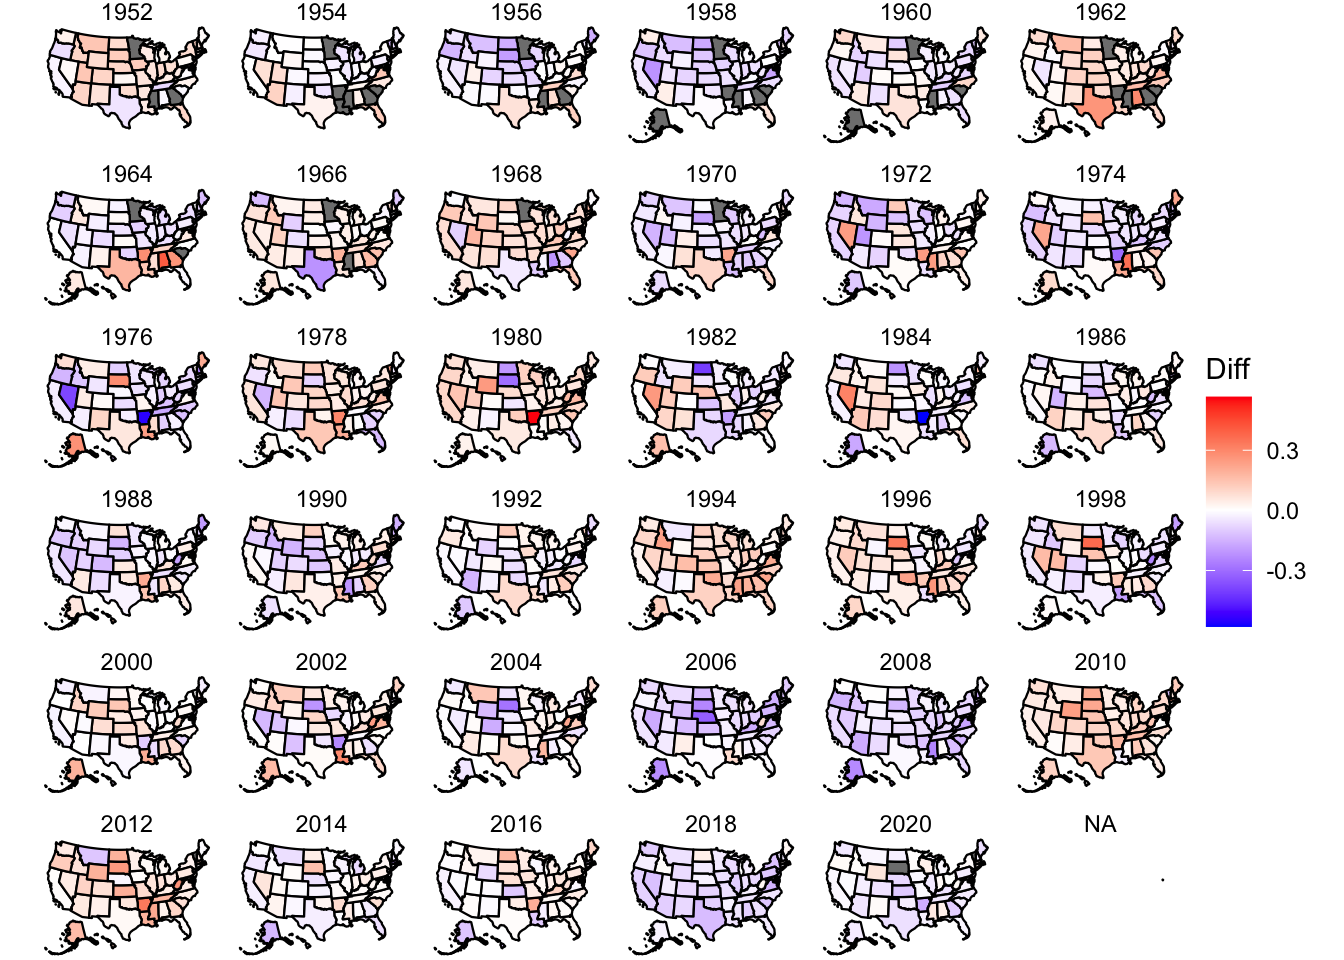
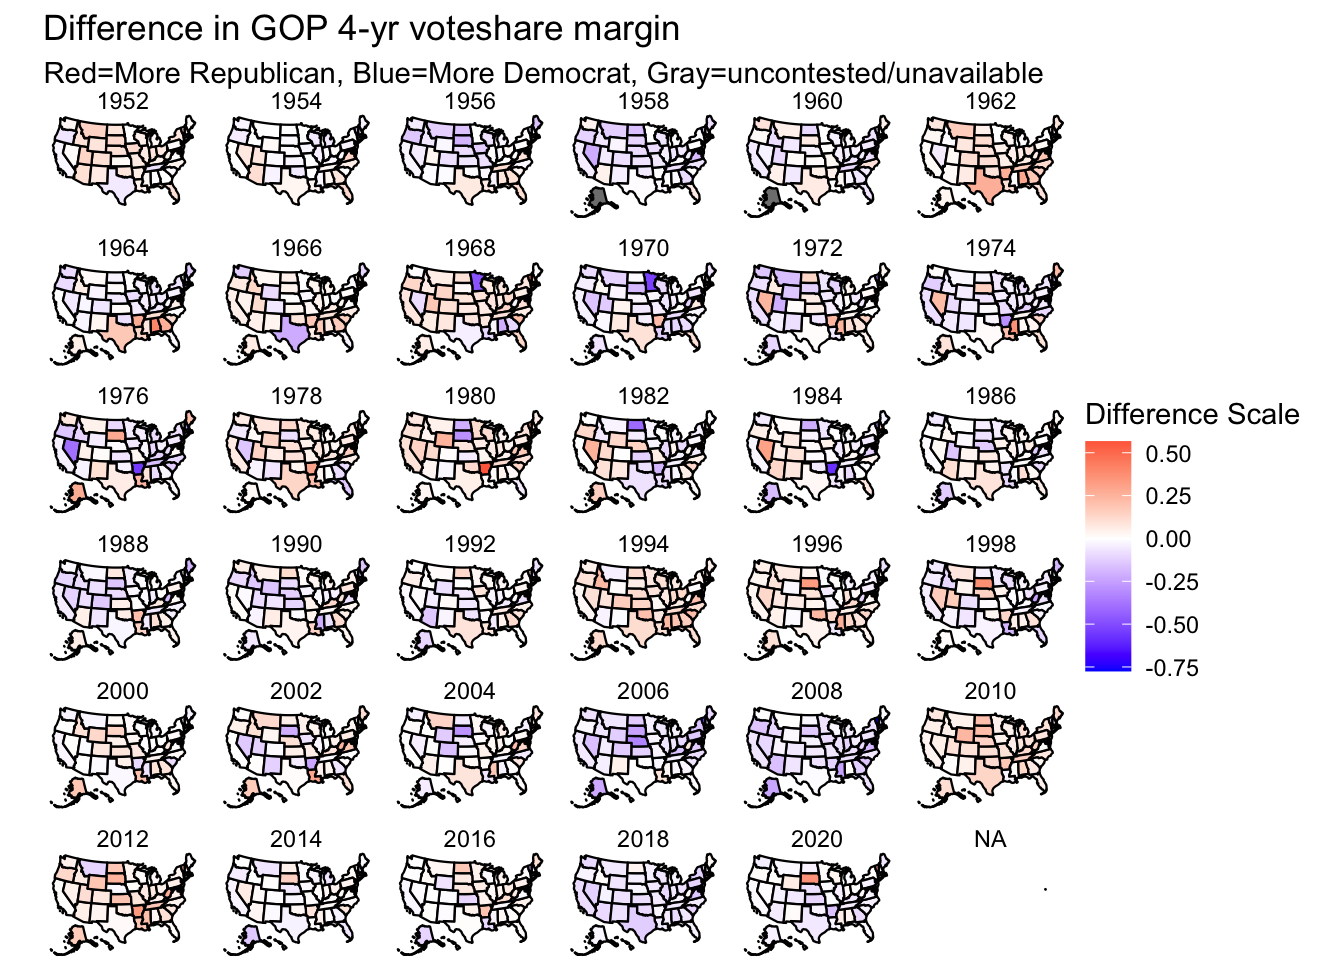
trial

diff --git a/public/post/2022-09-10-blog-post-1/index.html b/public/post/2022-09-10-blog-post-1/index.html
@@ -64,14 +64,12 @@
 		
 
 
-<p>Extension Swing State</p>
-<pre><code>## `summarise()` has grouped output by &#39;State&#39;. You can override using the
-## `.groups` argument.</code></pre>
-<p><img src="http://example.org/post/2022-09-10-blog-post-1/index_files/figure-html/unnamed-chunk-1-1.png" width="672" /></p>
+<p>In this blog post, I focus on the third extension project: an extension of the
+swing state map. The plot below shows each state’s four-year
+difference in Republican vote margin, starting with 1952 because the dataset only started in 1948.</p>
+<p><img src="http://example.org/post/2022-09-10-blog-post-1/index_files/figure-html/unnamed-chunk-1-1.png" width="672" /><img src="http://example.org/post/2022-09-10-blog-post-1/index_files/figure-html/unnamed-chunk-1-2.png" width="672" /></p>
 <p>Visualization
 <img src="http://example.org/post/2022-09-10-blog-post-1/index_files/figure-html/unnamed-chunk-2-1.png" width="672" /></p>
-<pre><code>## `summarise()` has grouped output by &#39;State&#39;, &#39;district_num&#39;. You can override
-## using the `.groups` argument.</code></pre>
 
 
 		
@@ -87,7 +85,7 @@
         		<footer>
 			
 			<span>
-			&copy; <time datetime="2022-09-14 13:06:14.163326 -0400 EDT m=&#43;0.168029126">2022</time> . Made with <a href='https://gohugo.io'>Hugo</a> using the <a href='https://github.com/EmielH/tale-hugo/'>Tale</a> theme.
+			&copy; <time datetime="2022-09-15 00:13:50.421915 -0400 EDT m=&#43;0.166063876">2022</time> . Made with <a href='https://gohugo.io'>Hugo</a> using the <a href='https://github.com/EmielH/tale-hugo/'>Tale</a> theme.
 			</span>
 		</footer>
 

diff --git a/public/post/index.html b/public/post/index.html
@@ -54,8 +54,7 @@
         <div class="catalogue-line"></div>
 
         <p>
-             Extension Swing State
-## `summarise()` has grouped output by &#39;State&#39;. You can override using the ## `.groups` argument. Visualization ## `summarise()` has grouped output by &#39;State&#39;, &#39;district_num&#39;. You can override ## using the `.groups` argument. 
+            
         </p>
     </div>
 </a>
@@ -75,7 +74,7 @@
         		<footer>
 			
 			<span>
-			&copy; <time datetime="2022-09-14 13:06:14.163505 -0400 EDT m=&#43;0.168207667">2022</time> . Made with <a href='https://gohugo.io'>Hugo</a> using the <a href='https://github.com/EmielH/tale-hugo/'>Tale</a> theme.
+			&copy; <time datetime="2022-09-15 00:13:50.42028 -0400 EDT m=&#43;0.164428459">2022</time> . Made with <a href='https://gohugo.io'>Hugo</a> using the <a href='https://github.com/EmielH/tale-hugo/'>Tale</a> theme.
 			</span>
 		</footer>
 

diff --git a/public/index.html b/public/index.html
@@ -59,8 +59,7 @@
         <div class="catalogue-line"></div>
 
         <p>
-             Extension Swing State
-## `summarise()` has grouped output by &#39;State&#39;. You can override using the ## `.groups` argument. Visualization ## `summarise()` has grouped output by &#39;State&#39;, &#39;district_num&#39;. You can override ## using the `.groups` argument. 
+            
         </p>
     </div>
 </a>
@@ -80,7 +79,7 @@
         		<footer>
 			
 			<span>
-			&copy; <time datetime="2022-09-14 13:06:14.163497 -0400 EDT m=&#43;0.168200042">2022</time> . Made with <a href='https://gohugo.io'>Hugo</a> using the <a href='https://github.com/EmielH/tale-hugo/'>Tale</a> theme.
+			&copy; <time datetime="2022-09-15 00:13:50.4203 -0400 EDT m=&#43;0.164448459">2022</time> . Made with <a href='https://gohugo.io'>Hugo</a> using the <a href='https://github.com/EmielH/tale-hugo/'>Tale</a> theme.
 			</span>
 		</footer>
 

diff --git a/content/post/2022-09-10-blog-post-1/index.html b/content/post/2022-09-10-blog-post-1/index.html
@@ -14,7 +14,8 @@ tags: []
 
 
 <p>In this blog post, I focus on the third extension project: an extension of the
-swing state map. Especially interested in Ohio-01</p>
+swing state map. The plot below shows each state’s four-year
+difference in Republican vote margin, starting with 1952 because the dataset only started in 1948.</p>
 <p><img src="{{< blogdown/postref >}}index_files/figure-html/unnamed-chunk-1-1.png" width="672" /><img src="{{< blogdown/postref >}}index_files/figure-html/unnamed-chunk-1-2.png" width="672" /></p>
 <p>Visualization
 <img src="{{< blogdown/postref >}}index_files/figure-html/unnamed-chunk-2-1.png" width="672" /></p>

diff --git a/public/tags/index.html b/public/tags/index.html
@@ -57,7 +57,7 @@
         		<footer>
 			
 			<span>
-			&copy; <time datetime="2022-09-14 13:06:14.158437 -0400 EDT m=&#43;0.163139959">2022</time> . Made with <a href='https://gohugo.io'>Hugo</a> using the <a href='https://github.com/EmielH/tale-hugo/'>Tale</a> theme.
+			&copy; <time datetime="2022-09-15 00:13:50.411793 -0400 EDT m=&#43;0.155941959">2022</time> . Made with <a href='https://gohugo.io'>Hugo</a> using the <a href='https://github.com/EmielH/tale-hugo/'>Tale</a> theme.
 			</span>
 		</footer>
 

diff --git a/public/categories/index.html b/public/categories/index.html
@@ -57,7 +57,7 @@
         		<footer>
 			
 			<span>
-			&copy; <time datetime="2022-09-14 13:06:14.15798 -0400 EDT m=&#43;0.162682501">2022</time> . Made with <a href='https://gohugo.io'>Hugo</a> using the <a href='https://github.com/EmielH/tale-hugo/'>Tale</a> theme.
+			&copy; <time datetime="2022-09-15 00:13:50.412358 -0400 EDT m=&#43;0.156506293">2022</time> . Made with <a href='https://gohugo.io'>Hugo</a> using the <a href='https://github.com/EmielH/tale-hugo/'>Tale</a> theme.
 			</span>
 		</footer>
 
